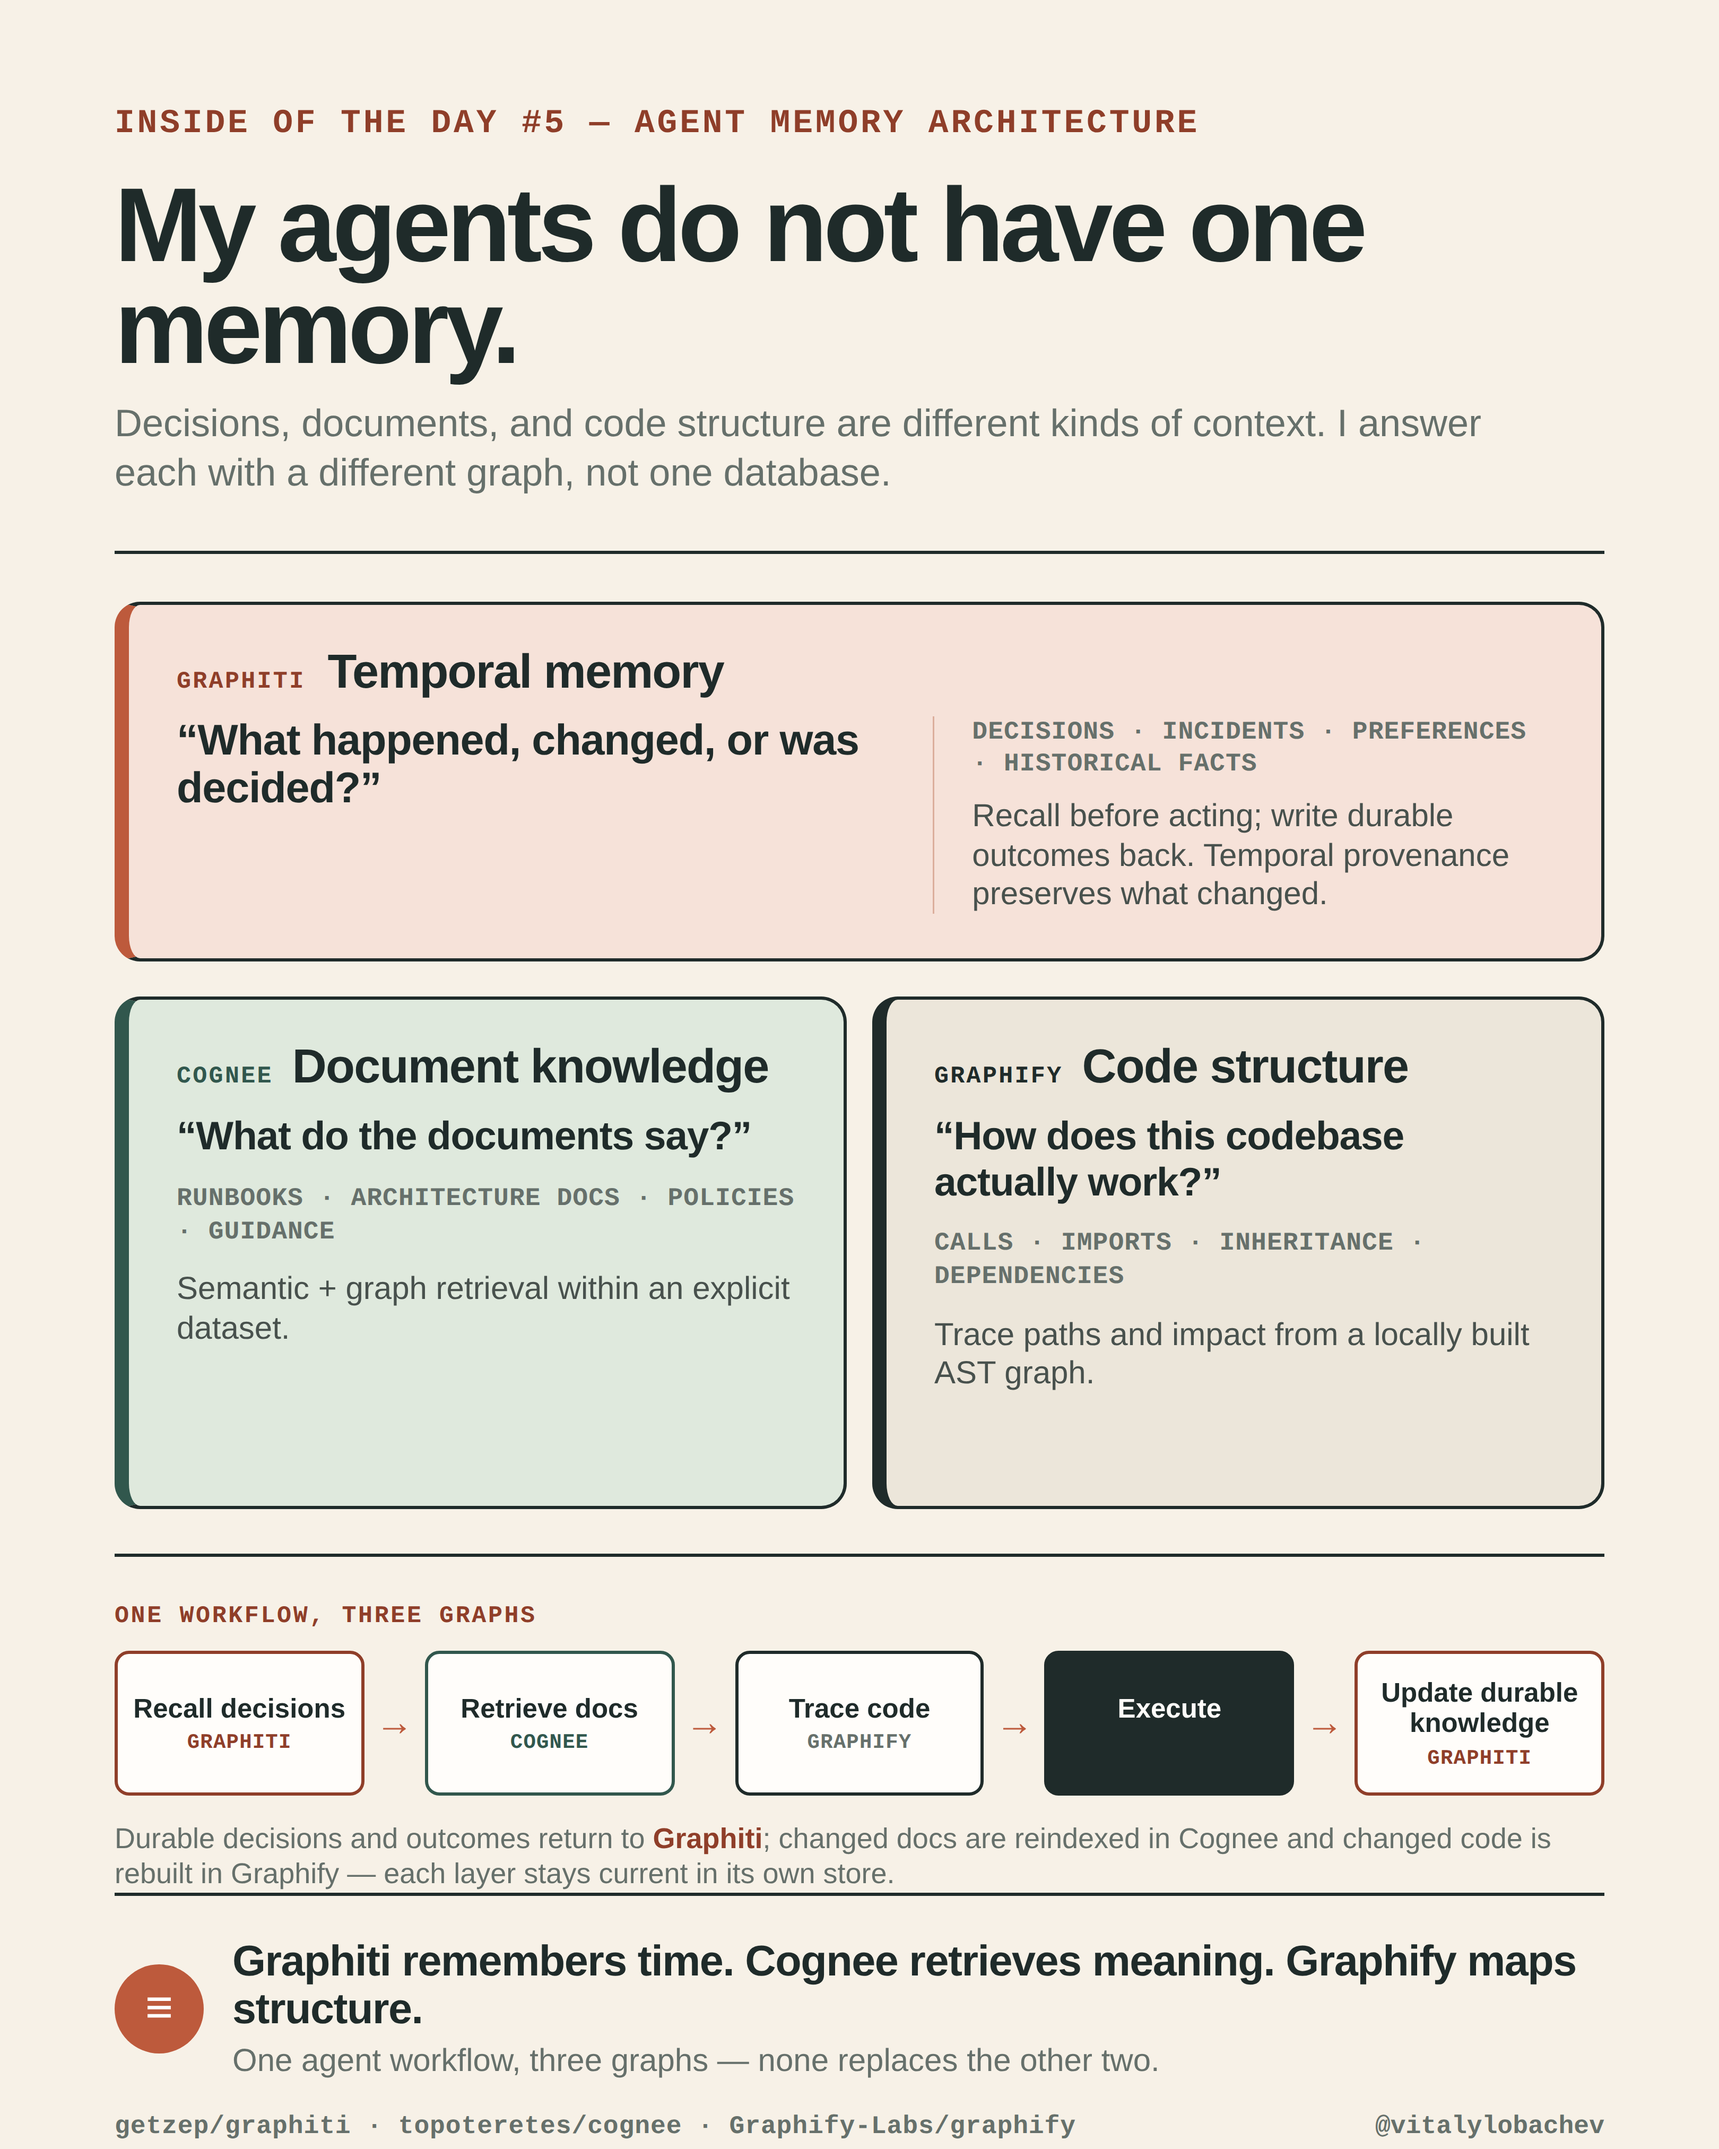
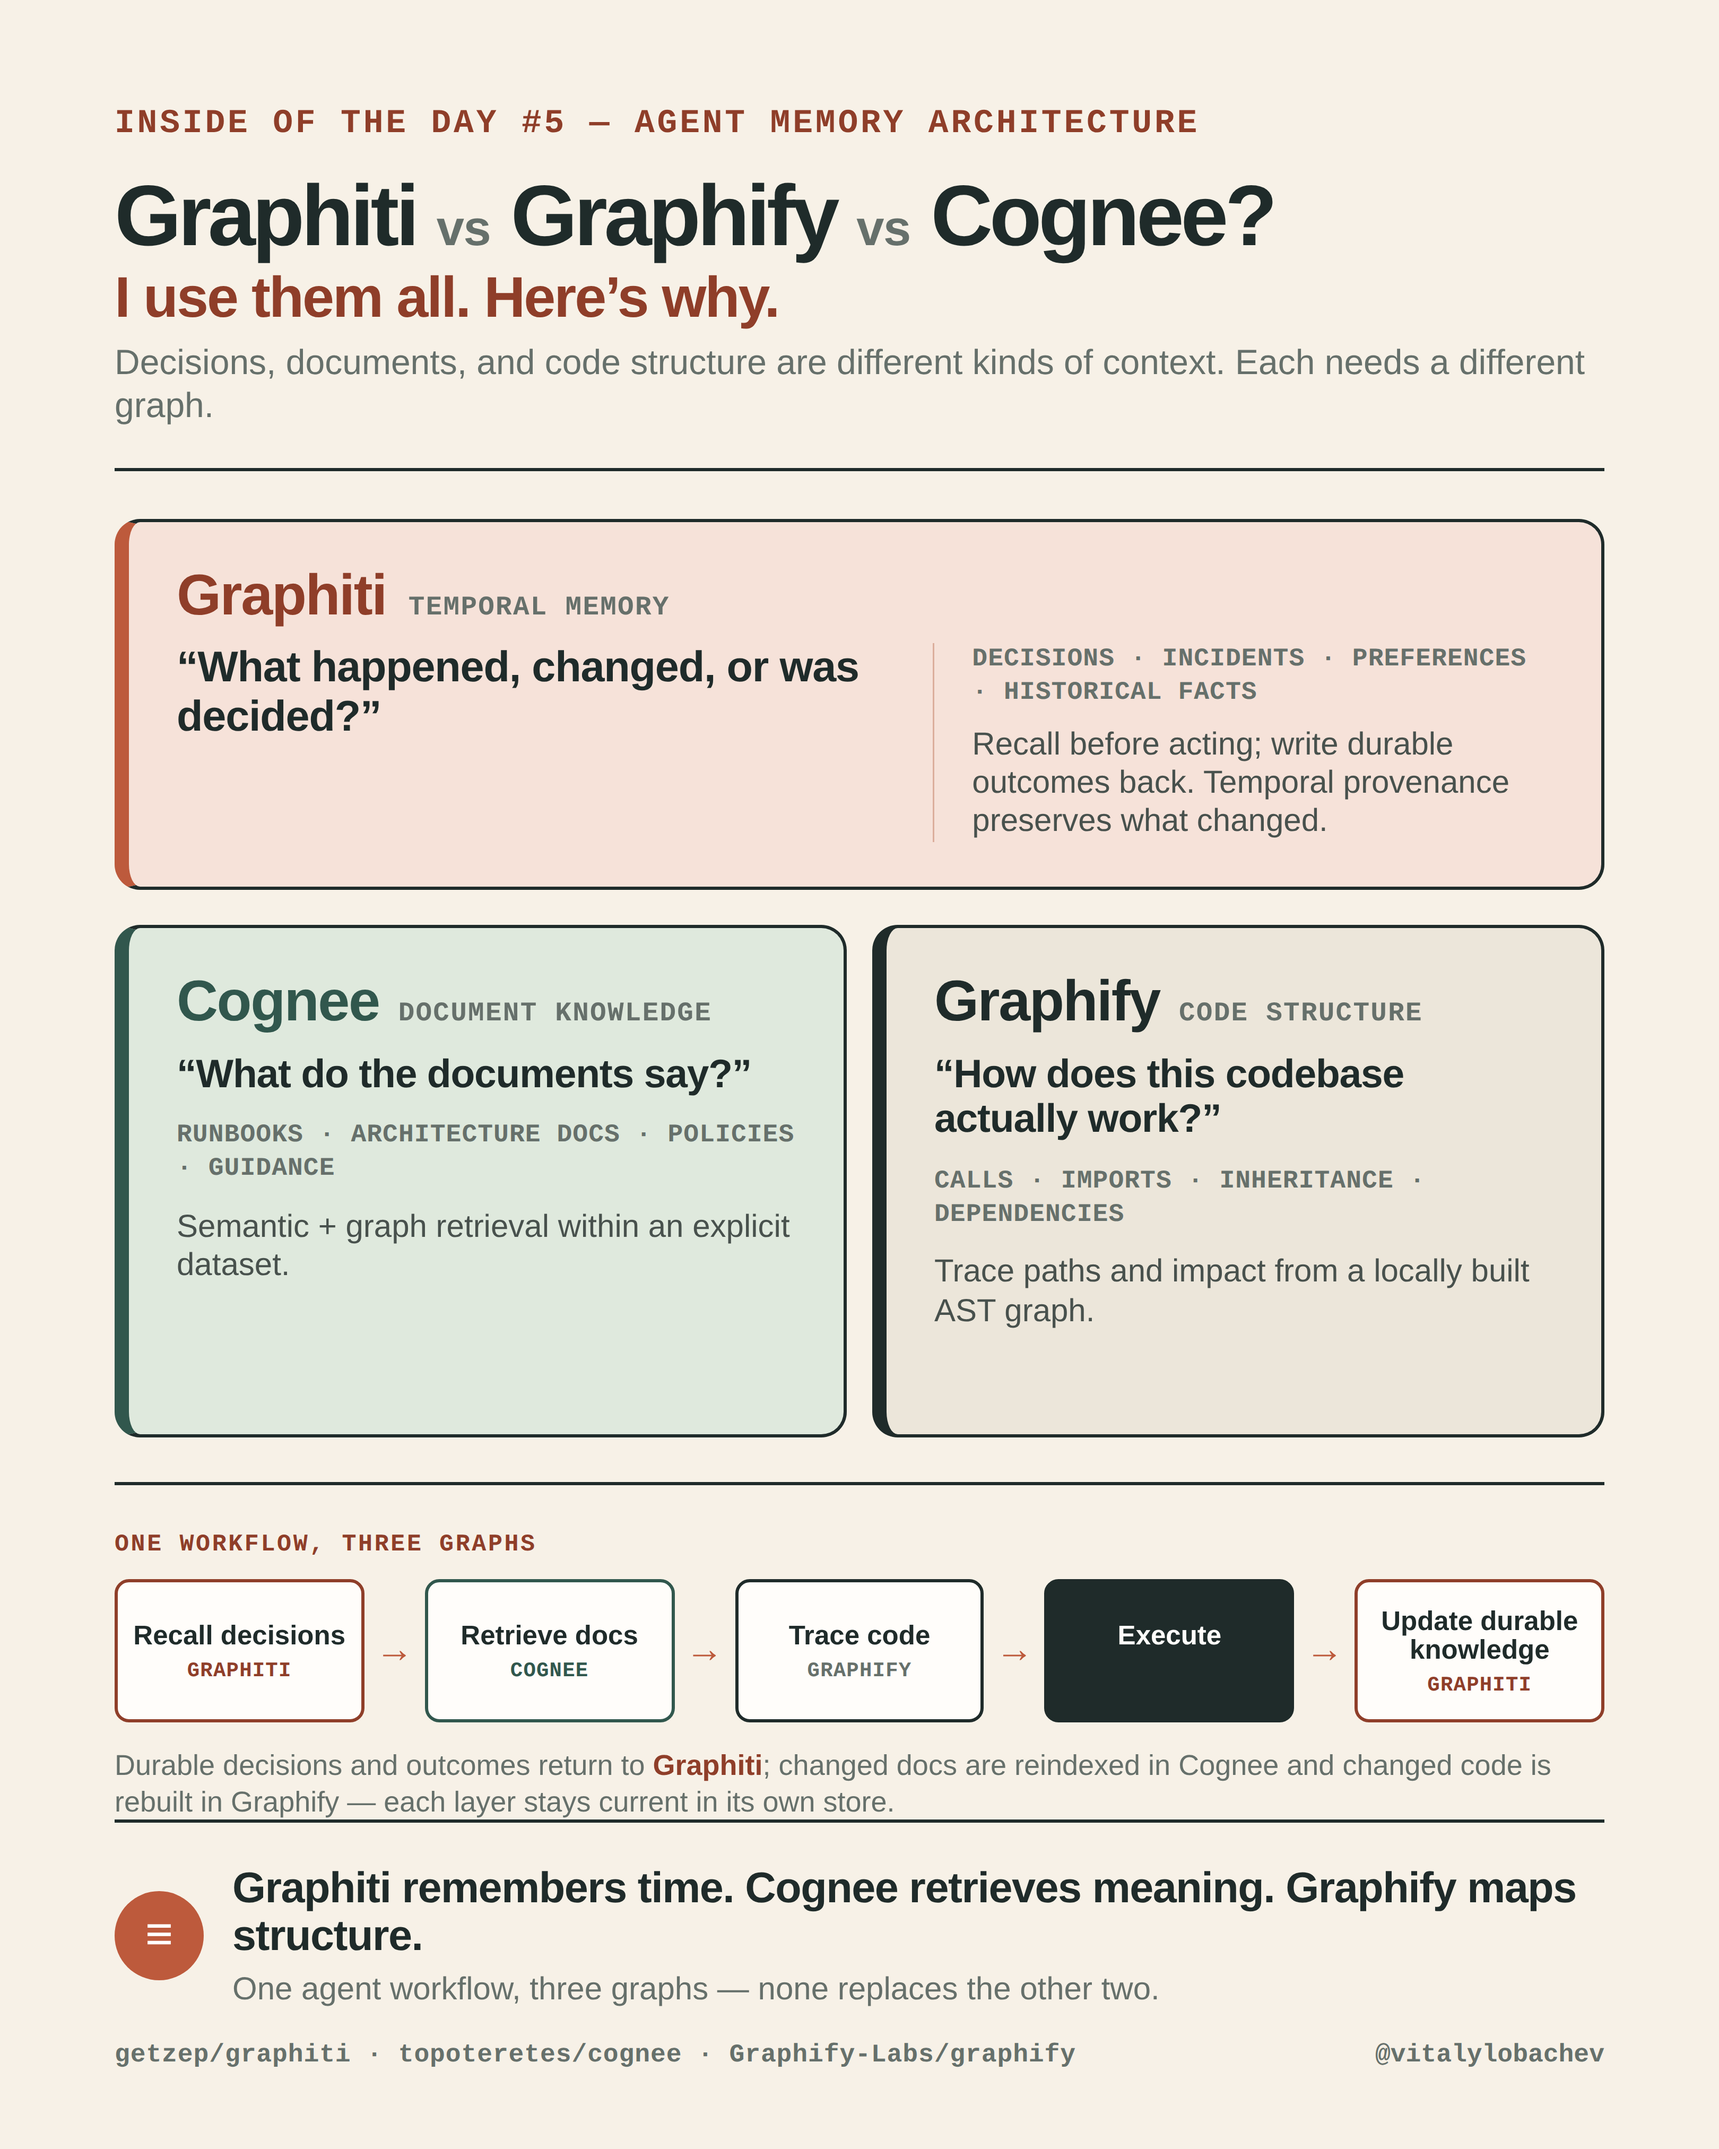
Make memory products prominent in post

diff --git a/posts/05-three-memory-layers/source/infographic.html b/posts/05-three-memory-layers/source/infographic.html
@@ -3,7 +3,7 @@
 <head>
 <meta charset="utf-8">
 <meta name="viewport" content="width=device-width,initial-scale=1">
-<title>My agents do not have one memory</title>
+<title>Graphiti vs Graphify vs Cognee?</title>
 <style>
 :root{--paper:#f7f1e7;--ink:#1f2b2a;--muted:#66706b;--line:#d7cec0;--rust:#bd5a3c;--rustDark:#8f3e29;--sage:#dfe9dd;--sageDark:#31574d;--white:#fffdfa}
 *{box-sizing:border-box}
@@ -11,14 +11,16 @@ html,body{margin:0;width:1080px;height:1350px;background:var(--paper)}
 body{color:var(--ink);font-family:Arial,Helvetica,sans-serif}
 .canvas{width:1080px;height:1350px;padding:66px 72px 50px;display:flex;flex-direction:column;overflow:hidden}
 .eyebrow{font:600 21px/1.2 "Courier New",monospace;letter-spacing:1.6px;color:var(--rustDark);text-transform:uppercase}
-h1{font-family:Arial,Helvetica,sans-serif;font-weight:800;margin:18px 0 14px;font-size:66px;line-height:.97;letter-spacing:-2.5px;max-width:900px}
-.dek{font-size:24px;line-height:1.3;color:var(--muted);max-width:900px;margin:0 0 32px}
+h1{font-family:Arial,Helvetica,sans-serif;font-weight:800;margin:18px 0 5px;font-size:54px;line-height:1;letter-spacing:-2.2px;white-space:nowrap}
+h1 .vs{font-size:.58em;color:var(--muted);font-weight:700;letter-spacing:-.5px}
+.hook{font-size:36px;line-height:1.05;font-weight:800;letter-spacing:-1px;margin:0 0 8px;color:var(--rustDark)}
+.dek{font-size:22px;line-height:1.25;color:var(--muted);max-width:930px;margin:0 0 25px}
 
 /* card layer system */
 .layers{border-top:2px solid var(--ink);padding-top:30px;display:flex;flex-direction:column;gap:22px}
 .card{border:2px solid var(--ink);border-radius:16px;background:var(--white);padding:28px 30px}
-.card .tag{font:700 15px/1 "Courier New",monospace;letter-spacing:1.1px;text-transform:uppercase}
-.card h2{font:800 30px/1 Arial,Helvetica,sans-serif;letter-spacing:-.6px;margin:0}
+.card h2{font:800 36px/1 Arial,Helvetica,sans-serif;letter-spacing:-.8px;margin:0}
+.card .layer{font:700 17px/1 "Courier New",monospace;letter-spacing:.75px;text-transform:uppercase;color:var(--muted)}
 .card .q{font:700 25px/1.14 Arial,Helvetica,sans-serif;letter-spacing:-.4px;margin:0;color:var(--ink)}
 .card .ex{font:700 16px/1.3 "Courier New",monospace;letter-spacing:.35px;color:var(--muted);text-transform:uppercase}
 .card .role{font-size:20px;line-height:1.22;color:#48514d;margin:0}
@@ -26,7 +28,7 @@ h1{font-family:Arial,Helvetica,sans-serif;font-weight:800;margin:18px 0 14px;fon
 /* wide Graphiti card */
 .wide{border-left:9px solid var(--rust);background:#f6e2d9}
 .wide .head{display:flex;align-items:baseline;gap:14px;margin-bottom:12px}
-.wide .tag{color:var(--rustDark)}
+.wide h2{color:var(--rustDark)}
 .wide .grid{display:grid;grid-template-columns:1.15fr 1fr;gap:26px;align-items:start}
 .wide .q{font-size:27px}
 .wide .right{display:flex;flex-direction:column;gap:10px;border-left:1px solid #dcae9c;padding-left:24px}
@@ -36,9 +38,9 @@ h1{font-family:Arial,Helvetica,sans-serif;font-weight:800;margin:18px 0 14px;fon
 .duo .card{display:flex;flex-direction:column;gap:14px;min-height:322px}
 .duo .head{display:flex;align-items:baseline;gap:12px}
 .cognee{border-left:9px solid var(--sageDark);background:var(--sage)}
-.cognee .tag{color:var(--sageDark)}
+.cognee h2{color:var(--sageDark)}
 .graphify{border-left:9px solid var(--ink);background:#ece6da}
-.graphify .tag{color:var(--ink)}
+.graphify h2{color:var(--ink)}
 
 /* workflow loop strip */
 .loop{margin-top:28px;border-top:2px solid var(--ink);padding-top:30px}
@@ -69,12 +71,13 @@ footer .src{letter-spacing:.3px}
 <body>
 <main class="canvas">
  <div class="eyebrow">Inside of the Day #5 — Agent memory architecture</div>
- <h1>My agents do not have one memory.</h1>
- <p class="dek">Decisions, documents, and code structure are different kinds of context. I answer each with a different graph, not one database.</p>
+ <h1>Graphiti <span class="vs">vs</span> Graphify <span class="vs">vs</span> Cognee?</h1>
+ <p class="hook">I use them all. Here&rsquo;s why.</p>
+ <p class="dek">Decisions, documents, and code structure are different kinds of context. Each needs a different graph.</p>
 
  <section class="layers" aria-label="Three memory and knowledge layers">
   <article class="card wide">
-   <div class="head"><span class="tag">Graphiti</span><h2>Temporal memory</h2></div>
+   <div class="head"><h2>Graphiti</h2><span class="layer">Temporal memory</span></div>
    <div class="grid">
     <p class="q">&ldquo;What happened, changed, or was decided?&rdquo;</p>
     <div class="right">
@@ -86,13 +89,13 @@ footer .src{letter-spacing:.3px}
 
   <div class="duo">
    <article class="card cognee">
-    <div class="head"><span class="tag">Cognee</span><h2>Document knowledge</h2></div>
+    <div class="head"><h2>Cognee</h2><span class="layer">Document knowledge</span></div>
     <p class="q">&ldquo;What do the documents say?&rdquo;</p>
     <div class="ex">Runbooks · Architecture docs · Policies · Guidance</div>
     <p class="role">Semantic + graph retrieval within an explicit dataset.</p>
    </article>
    <article class="card graphify">
-    <div class="head"><span class="tag">Graphify</span><h2>Code structure</h2></div>
+    <div class="head"><h2>Graphify</h2><span class="layer">Code structure</span></div>
     <p class="q">&ldquo;How does this codebase actually work?&rdquo;</p>
     <div class="ex">Calls · Imports · Inheritance · Dependencies</div>
     <p class="role">Trace paths and impact from a locally built AST graph.</p>

diff --git a/strategy/series-plan.md b/strategy/series-plan.md
@@ -12,7 +12,7 @@ One sharply framed, evidence-backed operating insight per post. Each post must g
 | 2 | Founder-gated questions | Park the task, keep independent ready work moving, and hand off founder decisions asynchronously. | scheduled |
 | 3 | The real stopping condition | A coding-agent system is done when no safe, actionable work remains in the ready queue - not when the current PRs merge. | scheduled |
 | 4 | Review evidence, not provenance | Review the diff, rationale, tests, CI result, and operational effect rather than an AI attribution label. | scheduled |
-| 5 | Three memory/knowledge layers | Agent memory is not one database: three different graphs (Graphiti, Cognee, Graphify) answer three different questions in one workflow. | draft for review |
+| 5 | Graphiti vs Graphify vs Cognee? | I use them all because three different graphs answer three different questions in one workflow. | draft for review |
 
 ## Rules
 

diff --git a/README.md b/README.md
@@ -12,7 +12,7 @@ Each post is a compact, evidence-backed operating insight about AI-assisted engi
 | 2 | A founder question should block a task - not the agent system. | approved, scheduled |
 | 3 | An autonomous session is done when the ready queue is empty. | approved, scheduled |
 | 4 | Review the work, not the AI label. | approved, scheduled |
-| 5 | My agents do not have one memory. | draft for review |
+| 5 | Graphiti vs Graphify vs Cognee? I use them all. Here's why. | draft for review |
 
 See [strategy/series-plan.md](strategy/series-plan.md) for the editorial and publication plan.
 

diff --git a/posts/05-three-memory-layers/post.md b/posts/05-three-memory-layers/post.md
@@ -1,8 +1,8 @@
-# Inside of the Day #5 - Agent memory architecture
+# Graphiti vs Graphify vs Cognee? I use them all. Here's why.
 
 ## Core insight
 
-Agent memory is not one database. My agents use three different graphs for three different questions.
+Graphiti, Graphify, and Cognee can look like competing answers to the same "agent memory" problem. I use all three because my agents ask three different kinds of questions.
 
 ## Mechanism
 
